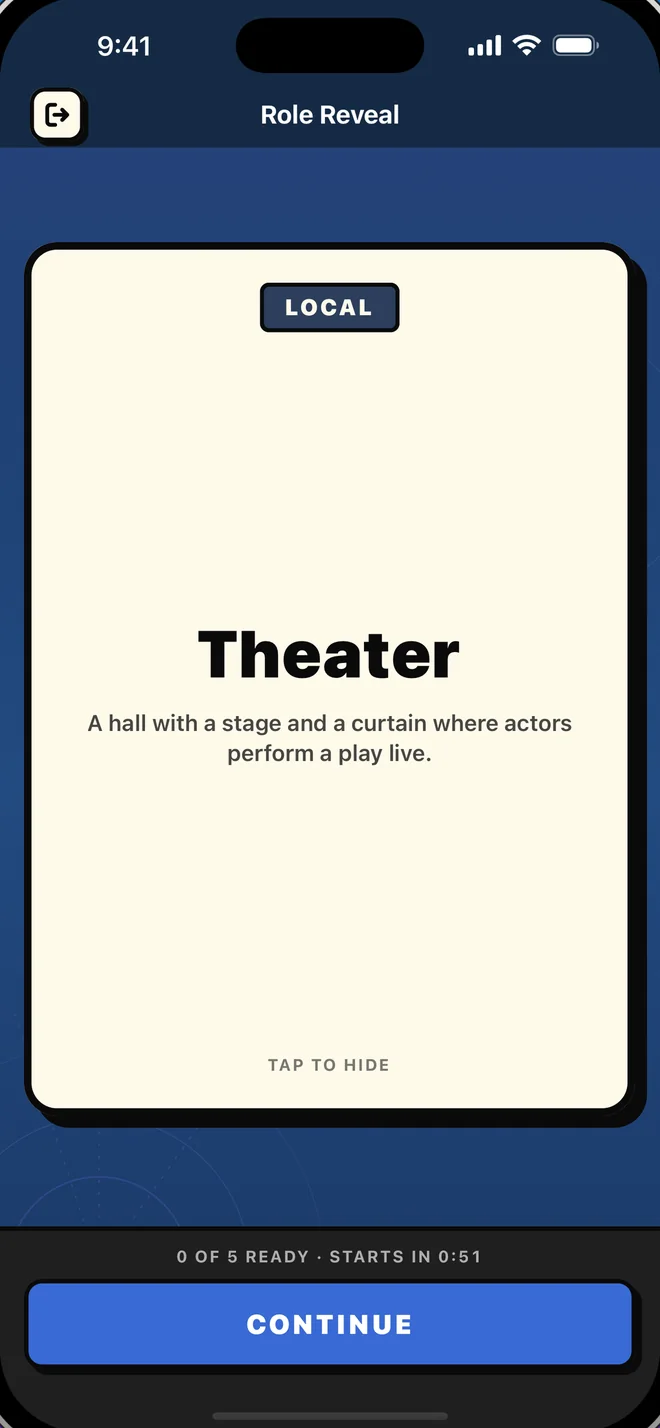
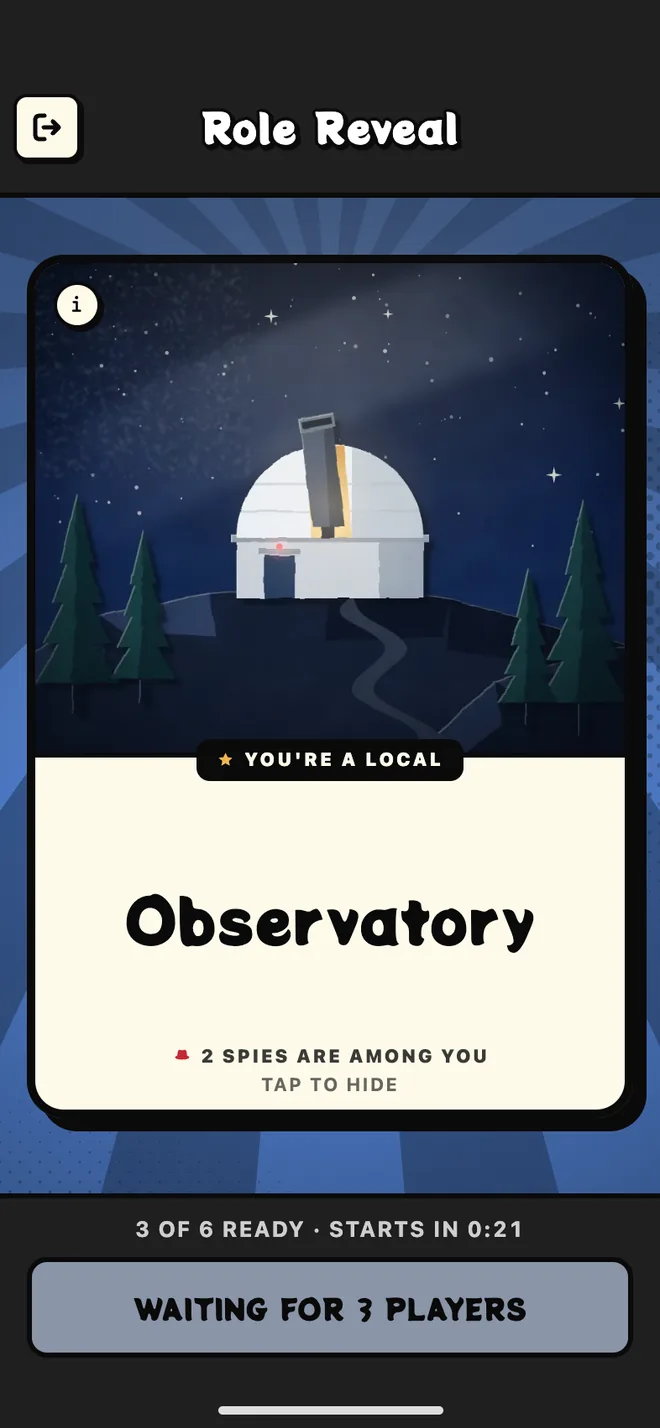
Home screenshots from the u62.14 build (help-pics-1117), NOT PUSHED
The home page's app screens showed the 1.x look (plain role cards, the old header and player cards, a plain Leave
door). Re-shot from app int/u62-14 (86023cec2) with the qa/overflow harness (393 pt, 2x, online role look at a
public table: fix/help-pics-1117's ?look=online&table=1&loc=12), resized to 660 x 1428:
- screenshots/role-local.webp: the Spotlight Local card, Observatory with its picture (was Theater, plain card)
- screenshots/role-spy.webp: the dark spy card, "You're the Spy" (was the plain SPY card)
- screenshots/spy-talk.webp: Detective's Desk, Spotlight clock, one-row player strip, "Your turn - ask" cue
- screenshots/vote.webp, solve.webp, spy-sketch.webp: today's vote, guess and Spy Sketch screens with the seal
- home/clue-es.webp, clue-ru.webp: the same Local card in Spanish and Russian (Observatorio, Обсерватория)
home.langs.cardAlts name the new place in all 10 languages. translate.webp (lobby chat) unchanged: not a u62.14 look.
Store-shot copies (src/assets/shots22, home rail + press downloads) untouched until the final store shoot.

diff --git a/src/i18n/locales/bn.ts b/src/i18n/locales/bn.ts
@@ -246,9 +246,9 @@ const bn: Strings = {
       chatTap: 'চ্যাটেও: যেকোনো মেসেজে অনুবাদ করুন ট্যাপ করলে তা আপনার ভাষায় পড়তে পারবেন।',
       trioLabel: 'তিন ভাষায় একটি ভূমিকার কার্ড',
       cardAlts: [
-        'ভূমিকা প্রকাশ: একজন স্থানীয়ের কার্ডে গোপন জায়গাটি দেখাচ্ছে, থিয়েটার',
-        'স্প্যানিশে ভূমিকার কার্ড: Teatro',
-        'রুশ ভাষায় ভূমিকার কার্ড: Театр',
+        'ভূমিকা প্রকাশ: একজন স্থানীয়ের কার্ডে গোপন জায়গাটি দেখাচ্ছে, মানমন্দির',
+        'স্প্যানিশে ভূমিকার কার্ড: Observatorio',
+        'রুশ ভাষায় ভূমিকার কার্ড: Обсерватория',
       ],
     },
     safety: {

diff --git a/src/i18n/locales/hi.ts b/src/i18n/locales/hi.ts
@@ -246,9 +246,9 @@ const hi: Strings = {
       chatTap: 'चैट भी: किसी भी मैसेज पर “अनुवाद करें” टैप करके उसे अपनी भाषा में पढ़ें।',
       trioLabel: 'तीन भाषाओं में एक भूमिका कार्ड',
       cardAlts: [
-        'भूमिका का खुलासा: स्थानीय के कार्ड पर गुप्त जगह दिखती है, थिएटर',
-        'स्पेनिश में भूमिका कार्ड: Teatro',
-        'रूसी में भूमिका कार्ड: Театр',
+        'भूमिका का खुलासा: स्थानीय के कार्ड पर गुप्त जगह दिखती है, वेधशाला',
+        'स्पेनिश में भूमिका कार्ड: Observatorio',
+        'रूसी में भूमिका कार्ड: Обсерватория',
       ],
     },
     safety: {

diff --git a/src/i18n/locales/ru.ts b/src/i18n/locales/ru.ts
@@ -248,9 +248,9 @@ const ru: Strings = {
       chatTap: 'И чат тоже: нажмите «Перевести» под любым сообщением, чтобы прочитать его на своём языке.',
       trioLabel: 'Одна карта роли на трёх языках',
       cardAlts: [
-        'Раздача ролей: на карте местного — секретное место, Theater',
-        'Карта роли на испанском: Teatro',
-        'Карта роли на русском: Театр',
+        'Раздача ролей: на карте местного — секретное место, Observatory',
+        'Карта роли на испанском: Observatorio',
+        'Карта роли на русском: Обсерватория',
       ],
     },
     safety: {

diff --git a/src/i18n/locales/ar.ts b/src/i18n/locales/ar.ts
@@ -246,9 +246,9 @@ const ar: Strings = {
       chatTap: 'والدردشة أيضًا: يكفي لمس «ترجمة» على أي رسالة لقراءتها بلغتك.',
       trioLabel: 'بطاقة دور واحدة بثلاث لغات',
       cardAlts: [
-        'كشف الأدوار: بطاقة المحلي تُظهر المكان السري، مسرح',
-        'بطاقة الدور بالإسبانية: Teatro',
-        'بطاقة الدور بالروسية: Театр',
+        'كشف الأدوار: بطاقة المحلي تُظهر المكان السري، مرصد',
+        'بطاقة الدور بالإسبانية: Observatorio',
+        'بطاقة الدور بالروسية: Обсерватория',
       ],
     },
     safety: {

diff --git a/src/i18n/locales/fr.ts b/src/i18n/locales/fr.ts
@@ -246,9 +246,9 @@ const fr: Strings = {
       chatTap: 'Le chat aussi\u00A0: appuie sur Traduire sous n\'importe quel message pour le lire dans ta langue.',
       trioLabel: 'Une carte de rôle en trois langues',
       cardAlts: [
-        "Révélation des rôles\u00A0: la carte d'un local affiche le lieu secret, Théâtre",
-        'Carte de rôle en espagnol\u00A0: Teatro',
-        'Carte de rôle en russe\u00A0: Театр',
+        "Révélation des rôles\u00A0: la carte d'un local affiche le lieu secret, Observatoire",
+        'Carte de rôle en espagnol\u00A0: Observatorio',
+        'Carte de rôle en russe\u00A0: Обсерватория',
       ],
     },
     safety: {

diff --git a/src/i18n/locales/es.ts b/src/i18n/locales/es.ts
@@ -247,9 +247,9 @@ const es: Strings = {
       chatTap: 'El chat también: toca «Traducir» en cualquier mensaje para leerlo en el tuyo.',
       trioLabel: 'Una tarjeta de rol en tres idiomas',
       cardAlts: [
-        'Revelación de roles: la tarjeta de un Local muestra la ubicación secreta, Teatro',
-        'Tarjeta de rol en español: Teatro',
-        'Tarjeta de rol en ruso: Театр',
+        'Revelación de roles: la tarjeta de un Local muestra la ubicación secreta, Observatorio',
+        'Tarjeta de rol en español: Observatorio',
+        'Tarjeta de rol en ruso: Обсерватория',
       ],
     },
     safety: {

diff --git a/src/i18n/locales/id.ts b/src/i18n/locales/id.ts
@@ -247,9 +247,9 @@ const id: Strings = {
       chatTap: 'Chat juga: ketuk Terjemahkan di pesan mana pun untuk membacanya dalam bahasamu.',
       trioLabel: 'Satu kartu peran dalam tiga bahasa',
       cardAlts: [
-        'Pembagian peran: kartu warga menampilkan lokasi rahasianya, Teater',
-        'Kartu peran dalam bahasa Spanyol: Teatro',
-        'Kartu peran dalam bahasa Rusia: Театр',
+        'Pembagian peran: kartu warga menampilkan lokasi rahasianya, Observatorium',
+        'Kartu peran dalam bahasa Spanyol: Observatorio',
+        'Kartu peran dalam bahasa Rusia: Обсерватория',
       ],
     },
     safety: {

diff --git a/src/i18n/locales/pt-BR.ts b/src/i18n/locales/pt-BR.ts
@@ -247,9 +247,9 @@ const ptBR: Strings = {
       chatTap: 'O chat também: toque em Traduzir em qualquer mensagem para ler no seu idioma.',
       trioLabel: 'Uma carta de papel em três idiomas',
       cardAlts: [
-        'Revelação do papel: a carta de um local mostra o lugar secreto, Teatro',
-        'Carta de papel em espanhol: Teatro',
-        'Carta de papel em russo: Театр',
+        'Revelação do papel: a carta de um local mostra o lugar secreto, Observatório',
+        'Carta de papel em espanhol: Observatorio',
+        'Carta de papel em russo: Обсерватория',
       ],
     },
     safety: {

diff --git a/src/i18n/locales/zh-Hans.ts b/src/i18n/locales/zh-Hans.ts
@@ -245,9 +245,9 @@ const zhHans: Strings = {
       chatTap: '聊天也一样：点击任意消息上的“翻译”，就能用你的语言阅读。',
       trioLabel: '一张身份牌，三种语言',
       cardAlts: [
-        '身份揭晓：平民的牌上显示秘密地点“剧院”',
-        '西班牙语身份牌：Teatro',
-        '俄语身份牌：Театр',
+        '身份揭晓：平民的牌上显示秘密地点“天文台”',
+        '西班牙语身份牌：Observatorio',
+        '俄语身份牌：Обсерватория',
       ],
     },
     safety: {

diff --git a/src/i18n/locales/en.ts b/src/i18n/locales/en.ts
@@ -288,9 +288,9 @@ const en = {
       chatTap: 'Chat too: tap Translate on any message to read it in yours.',
       trioLabel: 'One role card in three languages',
       cardAlts: [
-        "Role reveal: a Local's card shows the secret location, Theater",
-        'Role card in Spanish: Teatro',
-        'Role card in Russian: Театр',
+        "Role reveal: a Local's card shows the secret location, Observatory",
+        'Role card in Spanish: Observatorio',
+        'Role card in Russian: Обсерватория',
       ],
     },
     safety: {
